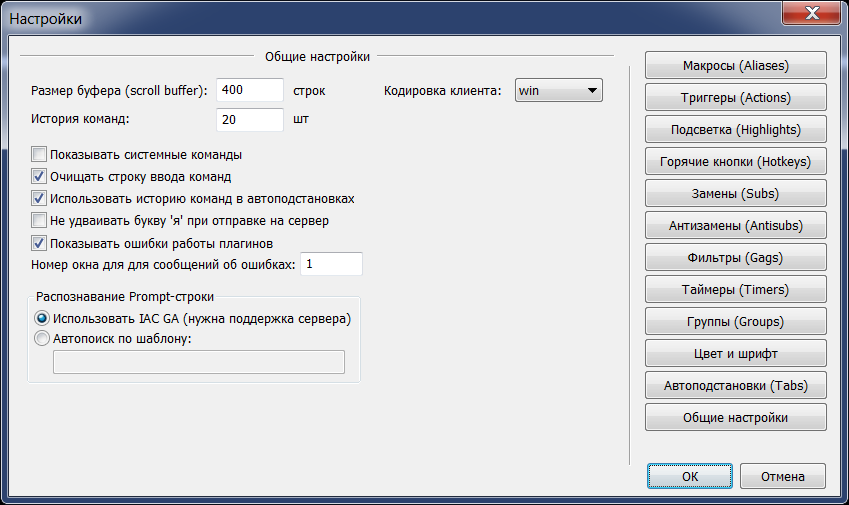
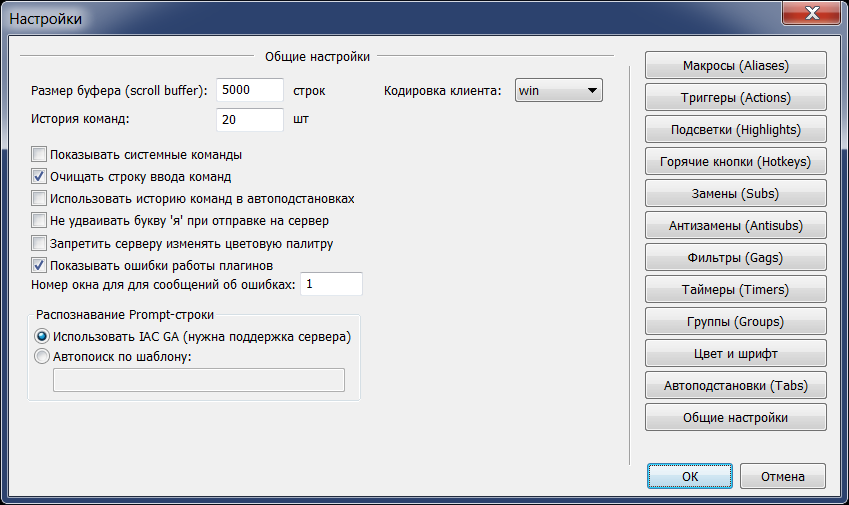
Подправлена справка клиента согласно последним изменениям.

diff --git a/help/tortilla.htm b/help/tortilla.htm
@@ -53,8 +53,14 @@ hr { border: 1px dashed; color: #909090; }
 Кратко о том, что умеет данный мад-клиент. Далее все возможности будут представлены более подробно.<br>
 <ul>
 <li><a href="#ansi" class="m">Поддержка ANSI-цветов</a>, как стандартных 16 цветов, так и расширенного набора из 256 цветов. Для первых основных 16 цветов можно менять палитру и выбирать ее по своему желанию.</li>
+<li><a href="#osc" class="m">Палитра OSC</a> - возможность серверу установить свою палитру стандартных 16 цветов.</li>
 <li><a href="#aboutmccp" class="m">Поддержка MCCP</a> (mud connection compression protocol). Протокол сжатия игрового трафика, который идет от сервера к мад-клиенту. Если мад-сервер также поддерживает этот протокол, 
 то данные от сервера могут приходить в сжатом виде.</li>
+<li><div class="m">Поддержка MTTS (TTYPE)</div> (mud terminal type standard). Это протокол, с помощью которого сервер получает информацию о клиенте и его возможностях. 
+Данный протокол позволяет серверу автоматически настроится на возможности клиента и использовать все его возможности. Подробности тут: <a href="http://tintin.sourceforge.net/mtts/" target="_blank">MTTS</a>.</li>
+<li><a href="#aboutmsdp" class="m">Поддержка MSDP</a> (mud server data protocol). Это протокол с дополнительными игровыми данными для клиента, которые 
+позволяют расширять клиент. Например, плагин с картой может получать через этот протокол данные о местоположении персонажа. Эти данные не попадают в текстовое окно, 
+но могут использоваться плагинами.
 <li><a href="#outputwnd" class="m">Поддержка Output-окон</a>. Это дополнительные окна, куда можно фильтровать и выводить нужную игровую информацию.</li>
 <li><a href="#mudhistory" class="m">История мада</a>. Эта возможность позволяет перематывать историю мада назад и при этом вся новая информация будет выводиться во вспомогательное окно.</li>
 <li><a href="#makelogs" class="m">Создание логов игры</a>. Клиент умеет протоколировать историю игры в виде логов.</li>
@@ -86,6 +92,11 @@ hr { border: 1px dashed; color: #909090; }
 позволяет использовать все 16 миллионов цветов, задавая цвет нужным текстам с помощью команд: 
 <a href="#highlight" class="cmd">#highlight</a>, <a href="#output" class="cmd">#output</a>, <a href="#woutput" class="cmd">#woutput</a>.
 О том, как задавать цвет в виде текстовой строки в этих комаднах, рассказано тут: <a href="#colors">Формат цвета</a>.
+<a name="osc"></a>
+<h3>Палитра OSC</h3>
+Клиент поддерживает возможность изменять палитру первых 16 цветов по командам с сервера (палитра сервера). При необходимости данную возможность можно отключить 
+в общих настройках клиента. Данная возможность позволяет мад серверу иметь свою индивидуальную расцветку текстов игры. 
+Подробности тут: <a href="http://www.mudpedia.org/mediawiki/index.php/OSC_color_palette" target="_blank">OSC color palette</a>.
 <a name="aboutmccp"></a>
 <h3>MCCP</h3>
 MCCP - это протокол сжатия игровых данных. Он используется для уменьшения трафика и увеличения скорости передачи игровых данных. Сжатие происходит только на участке от сервера к клиенту. 
@@ -93,6 +104,12 @@ MCCP - это протокол сжатия игровых данных. Он и
 в 8-9 раз и имеет смысл при игре через сотовые модемы или медленные каналы связи. Сжатие включается по запросу сервера. Если сервер поддерживает MCCP-сжатие, то он отправляет запрос клиенту 
 на включение сжатия, далее клиент должен ответить - поддерживает он сжатие или нет. Если поддерживает, то сжатие включается. С помощью команды <a href="#mccp" class="cmd">#mccp</a> всегда можно 
 узнать о том, как работает сжатие в данный момент в клиенте.
+<a name="aboutmsdp"></a>
+<h3>MSDP</h3>
+MSDP - протокол дополнительных данных, которые клиент может использовать при работе. Например: здоровье, ману, энергию, заклинания, местоположение и 
+много другое. Данные MSDP не предназначены для отображения в текстовом виде, но их можно использовать для других целей - создание плагинов для более удобной 
+игры. С помощью данного протокола можно создать такие плагины как: Карта, окно аффектов, которое висит на вас, окно основных параметров и т.д. 
+Подробно об этом протоколе можно прочитать тут: <a href="http://tintin.sourceforge.net/msdp/" target="_blank">MSDP</a>.
 <a name="outputwnd"></a>
 <h3>Дополнительные окна (output-окна)</h3>
 В мадах, где вся игровая информация представлена в виде текстов, зачастую сложно ориентироваться. Даже выделение отдельных сущностей или понятий игрового 
@@ -194,7 +211,7 @@ MCCP - это протокол сжатия игровых данных. Он и
 <img src="interface.png" class="leftimg" height="500">
 Интерфейс программы <div class="m">состоит из меню</div>(1), <div class="m">панели инструментов</div>(2), <div class="m">основного окна с текстом мада</div>(3), 
 <div class="m">поле ввода игровых и системных команд</div>(4) и <div class="m">дополнительных окон</div>(5), куда могут выводится отдельные части мад-текстов с помощью скриптов. Дополнительные окна - это плавающие окна, с возможностью пристыковки к основному окну. Их можно включать, выключать 
-и располагать в любом удобном месте экрана компьютера.<br><br>
+и располагать в любом удобном месте экрана компьютера. На экране также могу присутствовать окна плагинов.<br><br>
 <br>
 Меню состоит из 3 пунктов : <div class="m">Файл - Вид - ?</div>. Другие пункты меню добавляются с помощью плагинов.<br>
 <div class="m">Файл</div> - позволяет загружать профили или создавать новые (в том числе на базе существующих профилей), открыть диалоговые окна с настройками 
@@ -202,7 +219,7 @@ MCCP - это протокол сжатия игровых данных. Он и
 <div class="m">Вид</div> - отвечает за отображение элементов интерфейса. Сюда входят: панель инструментов, строка состояния, дополнительные окна клиента.<br><br>
 <div class="m">?</div> - с помощью этого пункта меню вы сможете вызвать эту справку из клиента или посмотреть информацию о его версии или перейти на его сайт.<br><br>
 На <div class="m">панель инструментов</div> выведены только самые основные и часто используемые функции: по созданию нового профиля, загрузке другого профиля, окно настроек, настройки плагинов и справка. Все 
-остальные функции доступны из меню. Плагины могут разместить свои кнопки на панели инструментов.<br><br>
+остальные функции доступны из меню. Плагины могут разместить свои кнопки на панели инструментов, а также свои пункты меню.<br><br>
 <p align="right"><a href="#top">В начало</a></p>
 <br clear="all">
 
@@ -251,7 +268,8 @@ MCCP - это протокол сжатия игровых данных. Он и
 Чтобы изменить цвет любого из цветов палитры. нужно выбрать курсором мыши нужный и нажать левую кнопку мыши.<br><br>
 Для изменения шрифта, нужно нажать кнопку(2) 'Шрифт'.<br><br>
 Цвет фона меняется кнопкой(3) 'Цвет фона'.<br><br>
-Чтобы сбросить все по умолчанию (Цвета палитры, цвет фона, шрифт), нужно нажать кнопку(4) 'Сбросить по умолчанию'.<br><br>
+Кнопка (4) предназначена для сброса палитры сервера (если она установлена).<br> см. <a href="#osc">OSC color palette</a><br><br>
+Чтобы сбросить все по умолчанию (Цвета палитры, цвет фона, шрифт), нужно нажать кнопку(5) 'Сбросить по умолчанию'.<br><br>
 <div class="m">Важно!</div> В конце необходимо нажать кнопку <div class="m">OK</div>, чтобы изменения применились.<br>
 <br clear="all">
 <a name="basesets"></a>
@@ -272,12 +290,14 @@ MCCP - это протокол сжатия игровых данных. Он и
 что-то начинающееся с этой команды.<br><br>
 <div class="m">Не удваивать букву 'я' при отправке на сервер</div> - По умолчанию мад-клиент удваивает букву 'я' в строках, когда отправляет их на сервер (см. <a href="#features">особенности клиента</a>). 
 Данная опция отключает отправку двойной буквы 'я'. Эта возможность необходима для некоторых мад серверов.<br><br>
+<div class="m">Запретить серверу изменять световую палитру</div> - клиент поддерживает палитру сервера (по команде сервера может изменяться цвет в палитре). Данный 
+флажок запрещает изменение палитры по командам мад сервера.<br><br>
 <div class="m">Показывать ошибки работы плагинов</div> - Плагины могут передавать в мад клиент дополнительную информацию о своей работе в виде логов. Данная опция включает вывод 
 этих данных в заданное окно клиента. Допустимые значения от 0 до 6. 0 - Это главное окно мада, от 1 и больше - это output окна.<br><br>
 <a name="prompt"></a>
 <div class="m">Распознавание Prompt-строки</div><br>
 <div class="e">Это важный параметр в настройках мад-клиента!</div> Без его корректной настройки не будут работать некоторые плагины, а сам клиент будет с ошибками 
-совмещать вывод текста и игровых команд!<br>
+совмещать вывод текста и игровых команд! 
 С его помощью, клиент распознает в потоке данных Prompt-строку, и отосительно нее работает уже сам клиент и плагины.<br><br>
 <div class="m">Использовать IAC GA</div> - если указан данный параметр, то клиент ищет в потоке игровой информации от сервера специальный маркер (IAC GA) и по 
 нему распознает Prompt-строку. Сервер должен поддерживать данную  возможность и она должна быть включена. Обычно в мад-серверах данный маркер включается с 
